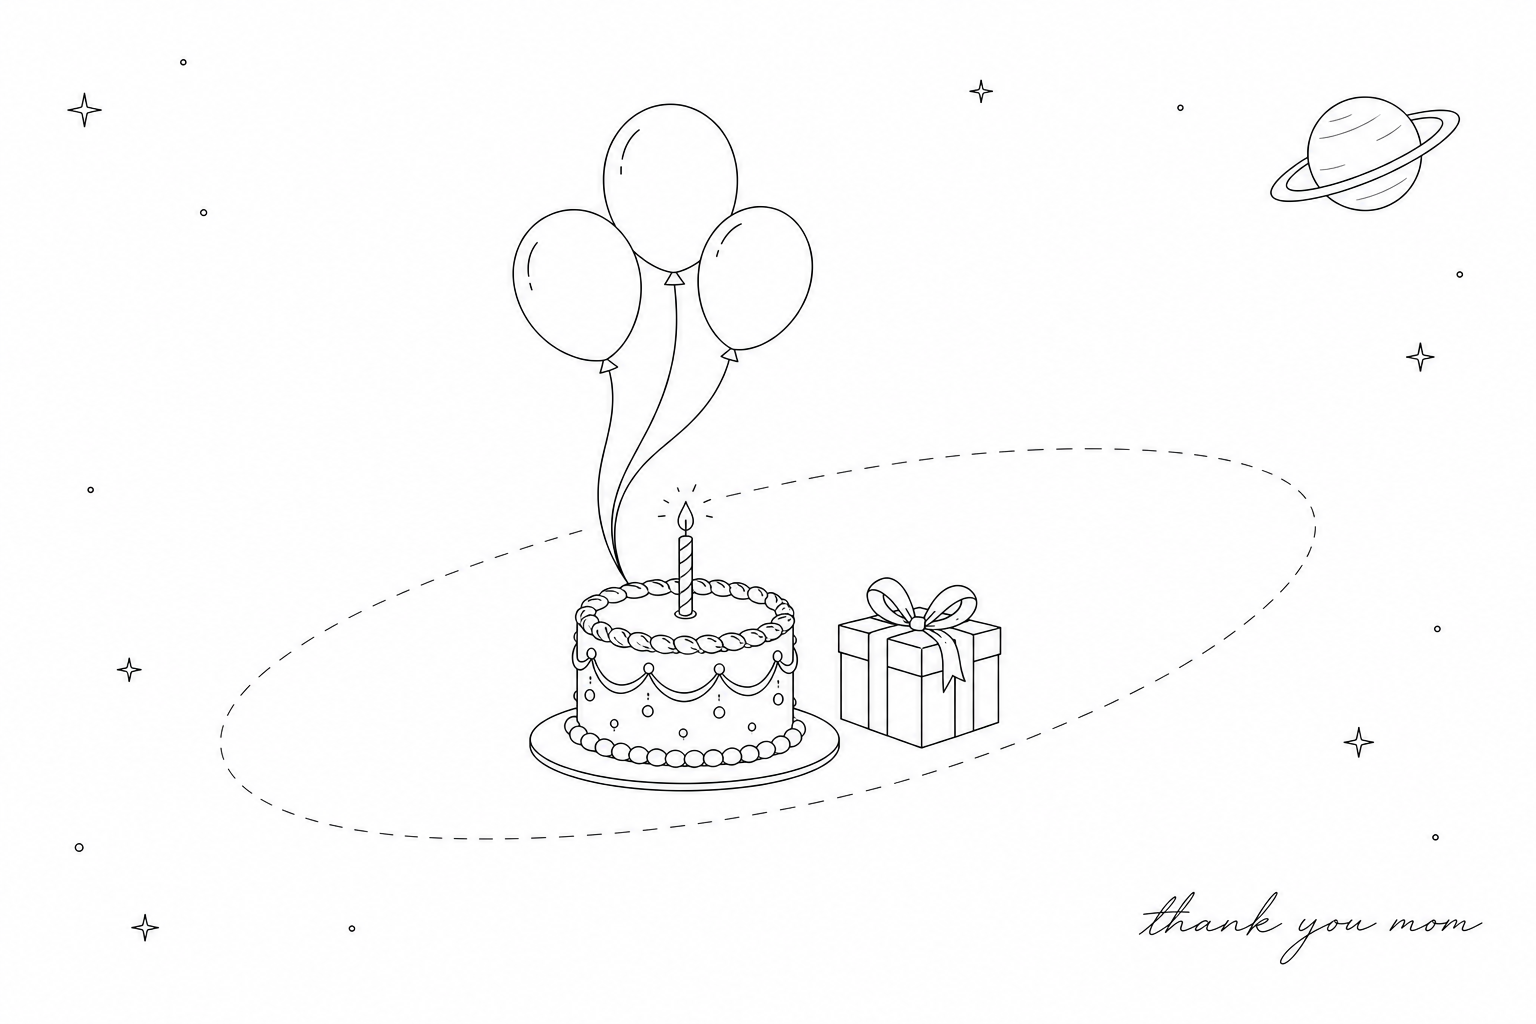
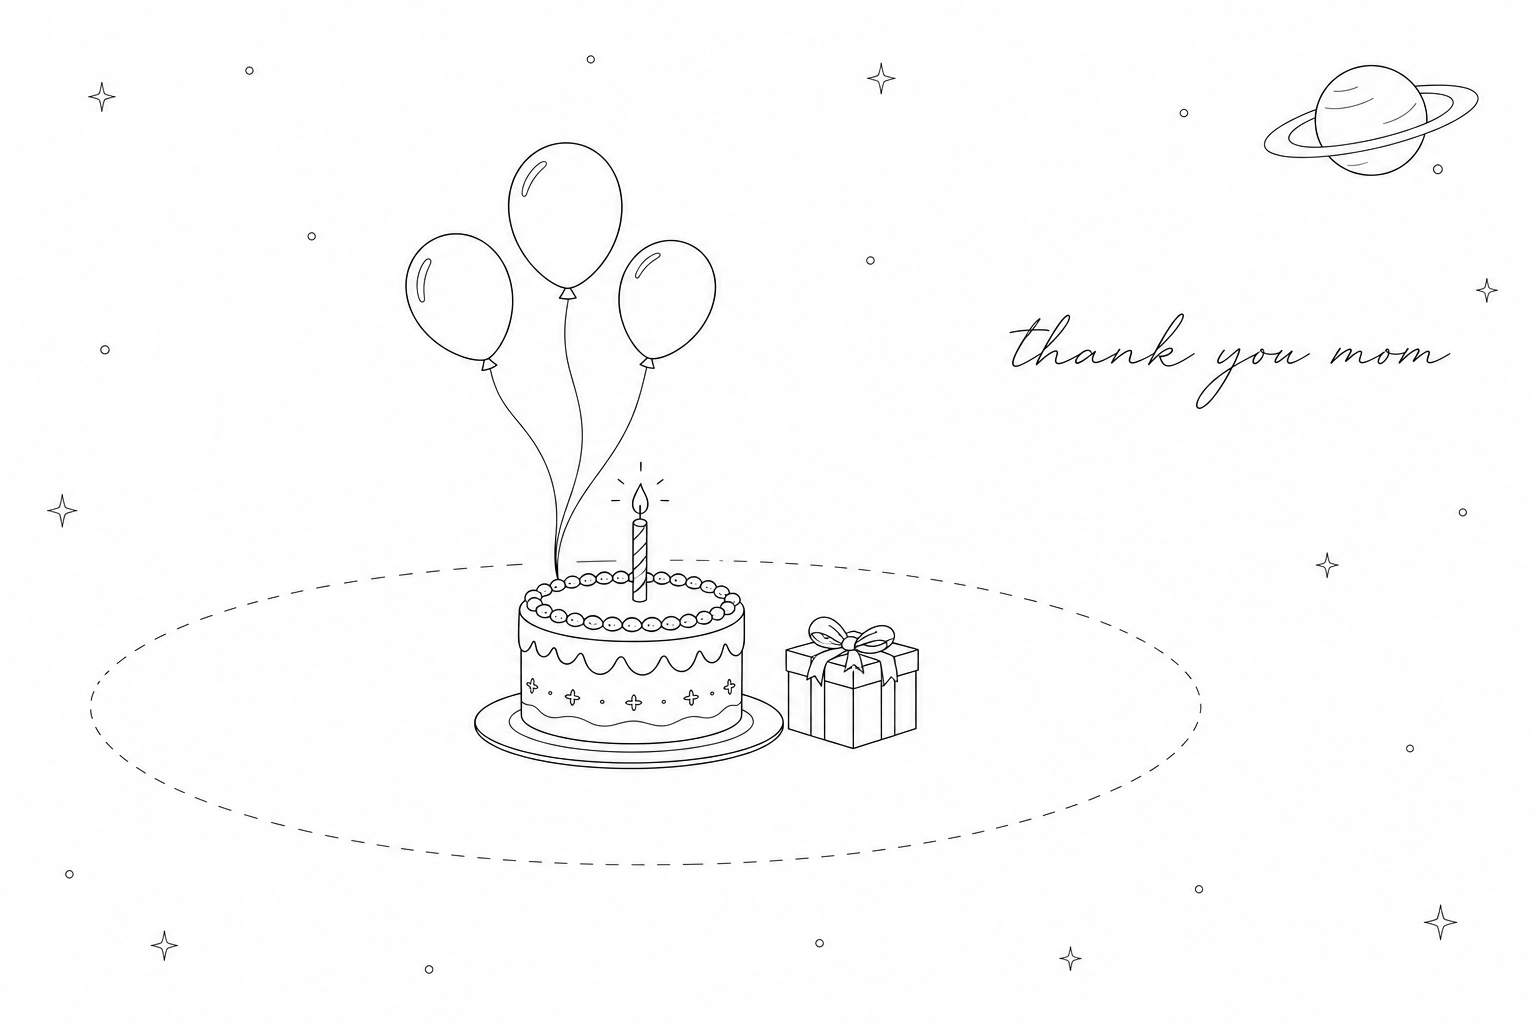
[SEARCHADS-22826] fix

diff --git a/apps/web/src/components/landing/LandingDownloadButton.tsx b/apps/web/src/components/landing/LandingDownloadButton.tsx
@@ -4,7 +4,6 @@ import { useI18n } from '@/lib/i18n'
 
 type Props = {
   compact?: boolean
-  variant?: 'primary' | 'text'
   className?: string
 }
 
@@ -30,25 +29,14 @@ function DownloadIcon({ className }: { className?: string }) {
   )
 }
 
-export function LandingDownloadButton({ compact, variant = 'primary', className }: Props) {
+export function LandingDownloadButton({ compact, className }: Props) {
   const { t } = useI18n()
   const { preparing, label, onDownload } = useLandingDownload()
-
-  if (variant === 'text') {
-    return (
-      <button
-        type="button"
-        disabled={preparing}
-        onClick={onDownload}
-        className={cn(
-          'text-sm text-site-muted no-underline transition-colors hover:text-site-text disabled:opacity-50',
-          className,
-        )}
-      >
-        {preparing ? '…' : t('welcome.navDownload')}
-      </button>
-    )
-  }
+  const buttonLabel = compact
+    ? preparing
+      ? '…'
+      : t('welcome.navDownload')
+    : label
 
   return (
     <button
@@ -63,7 +51,7 @@ export function LandingDownloadButton({ compact, variant = 'primary', className 
     >
       <span className="pointer-events-none absolute inset-0 bg-[radial-gradient(circle_at_center,rgba(255,255,255,0.2),transparent)] opacity-0 transition-opacity duration-300 group-hover:opacity-100" />
       {!compact ? <DownloadIcon className="relative z-10 mr-2 fill-white" /> : null}
-      <span className="relative z-10">{label}</span>
+      <span className="relative z-10">{buttonLabel}</span>
     </button>
   )
 }

diff --git a/apps/hone/src/renderer/src/shared/lib/applyTheme.ts b/apps/hone/src/renderer/src/shared/lib/applyTheme.ts
@@ -1,12 +1,11 @@
 import type { ThemeId } from '@widgets/CanvasBg';
 
-type Palette = 'light' | 'dark' | 'birthday';
+type Palette = 'light' | 'dark';
 
 const THEME_PALETTE: Record<ThemeId, Palette> = {
   drift: 'light',
   visor: 'light',
   winter: 'dark',
-  birthday: 'birthday',
   'birthday-light': 'light',
   particles: 'dark',
   debris: 'dark',
@@ -16,7 +15,6 @@ const THEME_PALETTE: Record<ThemeId, Palette> = {
 const THEME_COLOR: Partial<Record<ThemeId, string>> = {
   drift: '#fafaf8',
   visor: '#fafaf8',
-  birthday: '#140810',
   'birthday-light': '#fafaf8',
 };
 
@@ -24,12 +22,10 @@ const THEME_COLOR: Partial<Record<ThemeId, string>> = {
 export function applyTheme(theme: ThemeId): void {
   if (typeof document === 'undefined') return;
   const root = document.documentElement;
-  root.classList.remove('light', 'birthday', 'dark');
+  root.classList.remove('light', 'dark');
   const palette = THEME_PALETTE[theme] ?? 'dark';
   if (palette === 'light') {
     root.classList.add('light');
-  } else if (palette === 'birthday') {
-    root.classList.add('birthday', 'dark');
   } else {
     root.classList.add('dark');
   }

diff --git a/apps/hone/src/renderer/src/widgets/CanvasBg.tsx b/apps/hone/src/renderer/src/widgets/CanvasBg.tsx
@@ -1,10 +1,9 @@
 // CanvasBg — медитативный фон Hone'а.
 //
-// Themes (8):
+// Themes (7):
 //   - drift (light): line-art astronaut drifting near a capsule on white
 //   - visor (light): line-art astronaut portrait with Earth reflected in visor
 //   - winter (default): grid + stars float/twinkle + waves drift + 2 rotating squares
-//   - birthday (dark): manga ink scene — astronaut holding a birthday cake in space,
 //   - birthday-light: line-art birthday scene — cake, gift, balloons on white
 //   - particles: dense floating particles with proximity lines (canvas2D),
 //     line opacity pulses with sine wave, mouse parallax
@@ -37,7 +36,6 @@ export type ThemeId =
   | 'drift'
   | 'visor'
   | 'winter'
-  | 'birthday'
   | 'birthday-light'
   | 'particles'
   | 'debris'
@@ -47,7 +45,6 @@ export const THEME_IDS: ThemeId[] = [
   'drift',
   'visor',
   'winter',
-  'birthday',
   'birthday-light',
   'particles',
   'debris',
@@ -70,8 +67,6 @@ export function CanvasBg({ mode = 'full', theme = 'winter' }: CanvasBgProps) {
       return <ImageBg mode={mode} src="/backgrounds/debris.png" />;
     case 'launch':
       return <ImageBg mode={mode} src="/backgrounds/launch.png" />;
-    case 'birthday':
-      return <ImageBg mode={mode} src="/backgrounds/birthday.png" />;
     case 'birthday-light':
       return <ImageBg mode={mode} src="/backgrounds/birthday-light.png" />;
     case 'particles':

diff --git a/apps/hone/src/renderer/src/pages/Settings/lib/settings-store.ts b/apps/hone/src/renderer/src/pages/Settings/lib/settings-store.ts
@@ -50,8 +50,6 @@ export function themeLabelKey(id: string): string {
       return 'hone.theme.visor';
     case 'winter':
       return 'hone.theme.winter';
-    case 'birthday':
-      return 'hone.theme.birthday';
     case 'birthday-light':
       return 'hone.theme.birthday-light';
     case 'particles':

diff --git a/apps/web/src/components/brand/SiteHeader.tsx b/apps/web/src/components/brand/SiteHeader.tsx
@@ -33,7 +33,7 @@ export function SiteHeader({ centerLinks, right, className }: SiteHeaderProps) {
     <>
       <SiteLocaleToggle compact className="hidden sm:inline-flex" />
       <SiteThemeToggle theme={theme} onToggle={toggleTheme} compact className="hidden sm:inline-flex" />
-      <LandingDownloadButton variant="text" />
+      <LandingDownloadButton compact />
     </>
   )
 

diff --git a/apps/shared/i18n/locales/en.ts b/apps/shared/i18n/locales/en.ts
@@ -274,7 +274,6 @@ export const en = {
   'hone.whiteboard.publish_copied': 'Published link copied',
   'hone.theme.active_badge': 'Active',
   'hone.theme.aria_label': 'Theme: {{name}}',
-  'hone.theme.birthday': 'Birthday',
   'hone.theme.birthday-light': 'Birthday Light',
   'hone.theme.debris': 'Debris',
   'hone.theme.drift': 'Drift',

diff --git a/apps/shared/i18n/locales/ru.ts b/apps/shared/i18n/locales/ru.ts
@@ -274,7 +274,6 @@ export const ru = {
   'hone.whiteboard.publish_copied': 'Ссылка публикации скопирована',
   'hone.theme.active_badge': 'Активна',
   'hone.theme.aria_label': 'Тема: {{name}}',
-  'hone.theme.birthday': 'День рождения',
   'hone.theme.birthday-light': 'День рождения (светлая)',
   'hone.theme.debris': 'Обломки',
   'hone.theme.drift': 'Дрейф',